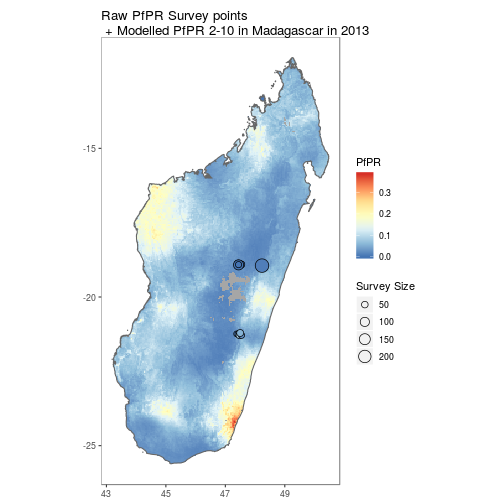
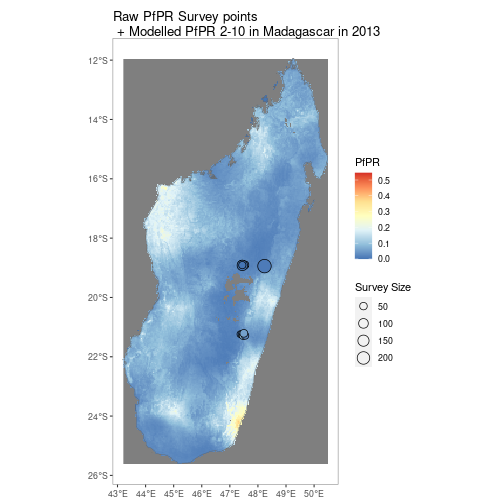
Regenerate README.md

Changed region(s): [[0.1786, 0.0, 0.8333, 1.0], [0.5357, 0.3869, 0.5655, 0.4167], [0.1786, 0.8631, 0.2083, 0.8929]]

diff --git a/README.md b/README.md
@@ -123,34 +123,34 @@ MDG_pr_data <- getPR(country = "Madagascar", species = "both")
 ```
 ## Rows: 1,651
 ## Columns: 28
-## $ dhs_id                    <chr> "", "", "", "", "", "", "", "", "", "", "", "", "", "", "", "", "", "", "", "", "", "", "", "",…
-## $ site_id                   <int> 6221, 6021, 15070, 15795, 7374, 13099, 9849, 21475, 15943, 7930, 13748, 16323, 19003, 10839, 27…
-## $ site_name                 <chr> "Andranomasina", "Andasibe", "Ambohimarina", "Antohobe", "Ambohimazava", "Ankeribe", "Alatsinai…
-## $ latitude                  <dbl> -18.7170, -19.8340, -18.7340, -19.7699, -25.0323, -18.7010, -18.7192, -19.5830, -24.9830, -19.7…
-## $ longitude                 <dbl> 47.4660, 47.8500, 47.2520, 46.6870, 46.9960, 47.1660, 47.4905, 47.4660, 46.9160, 46.6536, 46.71…
-## $ rural_urban               <chr> "UNKNOWN", "UNKNOWN", "UNKNOWN", "UNKNOWN", "UNKNOWN", "UNKNOWN", "UNKNOWN", "UNKNOWN", "UNKNOW…
-## $ country                   <chr> "Madagascar", "Madagascar", "Madagascar", "Madagascar", "Madagascar", "Madagascar", "Madagascar…
-## $ country_id                <chr> "MDG", "MDG", "MDG", "MDG", "MDG", "MDG", "MDG", "MDG", "MDG", "MDG", "MDG", "MDG", "MDG", "MDG…
-## $ continent_id              <chr> "Africa", "Africa", "Africa", "Africa", "Africa", "Africa", "Africa", "Africa", "Africa", "Afri…
-## $ month_start               <int> 1, 3, 1, 7, 4, 1, 1, 7, 4, 7, 11, 4, 9, 7, 7, 3, 7, 3, 4, 6, 3, 7, 7, 7, 7, 11, 11, 1, 11, 7, 1…
-## $ year_start                <int> 1987, 1987, 1987, 1995, 1986, 1987, 1987, 1995, 1986, 1995, 1997, 1986, 1991, 1995, 1995, 2005,…
-## $ month_end                 <int> 1, 3, 1, 8, 6, 1, 1, 8, 4, 8, 11, 6, 9, 8, 8, 6, 7, 3, 6, 6, 6, 7, 8, 8, 8, 11, 11, 1, 11, 8, 1…
-## $ year_end                  <int> 1987, 1987, 1987, 1995, 1986, 1987, 1987, 1995, 1986, 1995, 1997, 1986, 1991, 1995, 1995, 2005,…
-## $ lower_age                 <dbl> 0, 0, 0, 2, 7, 0, 0, 2, 6, 2, 2, 7, 0, 2, 2, 0, 0, 0, 7, 0, 0, 0, 2, 2, 2, 2, 2, 0, 2, 2, 0, 2,…
-## $ upper_age                 <int> 99, 99, 99, 9, 22, 99, 99, 9, 12, 9, 9, 22, 99, 9, 9, 5, 99, 99, 22, 99, 5, 99, 9, 9, 9, 9, 9, …
-## $ examined                  <int> 50, 246, 50, 50, 119, 50, 50, 50, 20, 50, 61, 156, 104, 50, 50, 147, 541, 115, 67, 123, 60, 307…
-## $ positive                  <dbl> 7.5, 126.0, 2.5, 6.0, 37.0, 13.5, 4.5, 11.5, 8.0, 7.0, 3.0, 97.0, 24.0, 33.0, 0.0, 70.0, 236.0,…
-## $ pr                        <dbl> 0.1500, 0.5122, 0.0500, 0.1200, 0.3109, 0.2700, 0.0900, 0.2300, 0.4000, 0.1400, 0.0492, 0.6218,…
-## $ species                   <chr> "P. falciparum", "P. falciparum", "P. falciparum", "P. falciparum", "P. falciparum", "P. falcip…
-## $ method                    <chr> "Microscopy", "Microscopy", "Microscopy", "Microscopy", "Microscopy", "Microscopy", "Microscopy…
-## $ rdt_type                  <chr> "", "", "", "", "", "", "", "", "", "", "", "", "", "", "", "", "", "", "", "", "", "", "", "",…
-## $ pcr_type                  <lgl> NA, NA, NA, NA, NA, NA, NA, NA, NA, NA, NA, NA, NA, NA, NA, NA, NA, NA, NA, NA, NA, NA, NA, NA,…
-## $ malaria_metrics_available <chr> "true", "true", "true", "true", "true", "true", "true", "true", "true", "true", "true", "true",…
-## $ location_available        <chr> "true", "true", "true", "true", "true", "true", "true", "true", "true", "true", "true", "true",…
-## $ permissions_info          <chr> "", "", "", "", "", "", "", "", "", "", "", "", "", "", "", "", "", "", "", "", "", "", "", "",…
-## $ citation1                 <chr> "Lepers, J.P., Ramanamirija, J.A., Andriamangatiana-Rason, M.D. and Coulanges, P. (1988).  <b>R…
-## $ citation2                 <chr> "", "", "", "", "", "", "", "", "", "", "", "", "", "", "", "", "", "", "", "", "", "", "", "",…
-## $ citation3                 <lgl> NA, NA, NA, NA, NA, NA, NA, NA, NA, NA, NA, NA, NA, NA, NA, NA, NA, NA, NA, NA, NA, NA, NA, NA,…
+## $ dhs_id                    <chr> "", "", "", "", "", "", "", "", "", "", "", "", "", "", "", "", "…
+## $ site_id                   <int> 6221, 6021, 15070, 15795, 7374, 13099, 9849, 21475, 15943, 7930, …
+## $ site_name                 <chr> "Andranomasina", "Andasibe", "Ambohimarina", "Antohobe", "Ambohim…
+## $ latitude                  <dbl> -18.7170, -19.8340, -18.7340, -19.7699, -25.0323, -18.7010, -18.7…
+## $ longitude                 <dbl> 47.4660, 47.8500, 47.2520, 46.6870, 46.9960, 47.1660, 47.4905, 47…
+## $ rural_urban               <chr> "UNKNOWN", "UNKNOWN", "UNKNOWN", "UNKNOWN", "UNKNOWN", "UNKNOWN",…
+## $ country                   <chr> "Madagascar", "Madagascar", "Madagascar", "Madagascar", "Madagasc…
+## $ country_id                <chr> "MDG", "MDG", "MDG", "MDG", "MDG", "MDG", "MDG", "MDG", "MDG", "M…
+## $ continent_id              <chr> "Africa", "Africa", "Africa", "Africa", "Africa", "Africa", "Afri…
+## $ month_start               <int> 1, 3, 1, 7, 4, 1, 1, 7, 4, 7, 11, 4, 9, 7, 7, 3, 7, 3, 4, 6, 3, 7…
+## $ year_start                <int> 1987, 1987, 1987, 1995, 1986, 1987, 1987, 1995, 1986, 1995, 1997,…
+## $ month_end                 <int> 1, 3, 1, 8, 6, 1, 1, 8, 4, 8, 11, 6, 9, 8, 8, 6, 7, 3, 6, 6, 6, 7…
+## $ year_end                  <int> 1987, 1987, 1987, 1995, 1986, 1987, 1987, 1995, 1986, 1995, 1997,…
+## $ lower_age                 <dbl> 0, 0, 0, 2, 7, 0, 0, 2, 6, 2, 2, 7, 0, 2, 2, 0, 0, 0, 7, 0, 0, 0,…
+## $ upper_age                 <int> 99, 99, 99, 9, 22, 99, 99, 9, 12, 9, 9, 22, 99, 9, 9, 5, 99, 99, …
+## $ examined                  <int> 50, 246, 50, 50, 119, 50, 50, 50, 20, 50, 61, 156, 104, 50, 50, 1…
+## $ positive                  <dbl> 7.5, 126.0, 2.5, 6.0, 37.0, 13.5, 4.5, 11.5, 8.0, 7.0, 3.0, 97.0,…
+## $ pr                        <dbl> 0.1500, 0.5122, 0.0500, 0.1200, 0.3109, 0.2700, 0.0900, 0.2300, 0…
+## $ species                   <chr> "P. falciparum", "P. falciparum", "P. falciparum", "P. falciparum…
+## $ method                    <chr> "Microscopy", "Microscopy", "Microscopy", "Microscopy", "Microsco…
+## $ rdt_type                  <chr> "", "", "", "", "", "", "", "", "", "", "", "", "", "", "", "", "…
+## $ pcr_type                  <lgl> NA, NA, NA, NA, NA, NA, NA, NA, NA, NA, NA, NA, NA, NA, NA, NA, N…
+## $ malaria_metrics_available <chr> "true", "true", "true", "true", "true", "true", "true", "true", "…
+## $ location_available        <chr> "true", "true", "true", "true", "true", "true", "true", "true", "…
+## $ permissions_info          <chr> "", "", "", "", "", "", "", "", "", "", "", "", "", "", "", "", "…
+## $ citation1                 <chr> "Lepers, J.P., Ramanamirija, J.A., Andriamangatiana-Rason, M.D. a…
+## $ citation2                 <chr> "", "", "", "", "", "", "", "", "", "", "", "", "", "", "", "", "…
+## $ citation3                 <lgl> NA, NA, NA, NA, NA, NA, NA, NA, NA, NA, NA, NA, NA, NA, NA, NA, N…
 ```
 
 
@@ -184,30 +184,30 @@ MMR_vec_data <- getVecOcc(country = "Myanmar")
 ```
 ## Rows: 2,866
 ## Columns: 24
-## $ site_id        <int> 30243, 30243, 30243, 30243, 1000000072, 1000000071, 1000000071, 1000000072, 1000000071, 1000000071, 100000…
-## $ latitude       <dbl> 16.2570, 16.2570, 16.2570, 16.2570, 17.3500, 17.3800, 17.3800, 17.3500, 17.3800, 17.3800, 17.3800, 17.3800…
-## $ longitude      <dbl> 97.7250, 97.7250, 97.7250, 97.7250, 96.0410, 96.0370, 96.0370, 96.0410, 96.0370, 96.0370, 96.0370, 96.0370…
-## $ country        <chr> "Myanmar", "Myanmar", "Myanmar", "Myanmar", "Myanmar", "Myanmar", "Myanmar", "Myanmar", "Myanmar", "Myanma…
-## $ country_id     <chr> "MMR", "MMR", "MMR", "MMR", "MMR", "MMR", "MMR", "MMR", "MMR", "MMR", "MMR", "MMR", "MMR", "MMR", "MMR", "…
-## $ continent_id   <chr> "Asia", "Asia", "Asia", "Asia", "Asia", "Asia", "Asia", "Asia", "Asia", "Asia", "Asia", "Asia", "Asia", "A…
-## $ month_start    <int> 2, 3, 8, 9, 5, 5, 5, 5, 5, 5, 5, 5, 5, 5, 5, 5, 5, 10, 5, 5, 5, 5, 5, 5, 5, 5, 5, 5, 5, 5, 5, 5, 5, 5, 5, …
-## $ year_start     <int> 1998, 1998, 1998, 1998, 1998, 1998, 1998, 1998, 1998, 1998, 1998, 1998, 1998, 1998, 1998, 1998, 1998, 1998…
-## $ month_end      <int> 2, 3, 8, 9, 3, 3, 3, 3, 3, 3, 3, 3, 3, 3, 3, 3, 3, 10, 3, 3, 3, 3, 3, 3, 3, 3, 3, 3, 3, 3, 3, 3, 3, 3, 3, …
-## $ year_end       <int> 1998, 1998, 1998, 1998, 2000, 2000, 2000, 2000, 2000, 2000, 2000, 2000, 2000, 2000, 2000, 2000, 2000, 1998…
-## $ anopheline_id  <int> 17, 17, 17, 17, 50, 49, 17, 51, 11, 4, 15, 1, 35, 30, 50, 51, 30, 17, 17, 11, 15, 1, 35, 49, 4, 17, 11, 15…
-## $ species        <chr> "Anopheles dirus species complex", "Anopheles dirus species complex", "Anopheles dirus species complex", "…
-## $ species_plain  <chr> "Anopheles dirus", "Anopheles dirus", "Anopheles dirus", "Anopheles dirus", "Anopheles stephensi", "Anophe…
-## $ id_method1     <chr> "unknown", "unknown", "unknown", "unknown", "morphology", "morphology", "morphology", "morphology", "morph…
-## $ id_method2     <chr> "", "", "", "", "", "", "", "", "", "", "", "", "", "", "", "", "", "", "", "", "", "", "", "", "", "", ""…
-## $ sample_method1 <chr> "man biting", "man biting", "man biting", "man biting", "man biting indoors", "man biting indoors", "man b…
-## $ sample_method2 <chr> "animal baited net trap", "animal baited net trap", "animal baited net trap", "animal baited net trap", "m…
-## $ sample_method3 <chr> "", "", "", "", "animal baited net trap", "animal baited net trap", "animal baited net trap", "animal bait…
-## $ sample_method4 <chr> "", "", "", "", "house resting inside", "house resting inside", "house resting inside", "house resting ins…
-## $ assi           <chr> "", "", "", "", "", "", "", "", "", "", "", "", "", "", "", "", "", "", "", "", "", "", "", "", "", "", ""…
-## $ citation       <chr> "Oo, T.T., Storch, V. and Becker, N. (2003).  <b><i>Anopheles</i> <i>dirus</i> and its role in malaria tra…
-## $ geom           <chr> "POINT (16.257 97.725)", "POINT (16.257 97.725)", "POINT (16.257 97.725)", "POINT (16.257 97.725)", "POINT…
-## $ time_start     <chr> "1998-02-01", "1998-03-01", "1998-08-01", "1998-09-01", "1998-05-01", "1998-05-01", "1998-05-01", "1998-05…
-## $ time_end       <chr> "1998-02-01", "1998-03-01", "1998-08-01", "1998-09-01", "2000-03-01", "2000-03-01", "2000-03-01", "2000-03…
+## $ site_id        <int> 30243, 30243, 30243, 30243, 1000000072, 1000000071, 1000000071, 1000000072, …
+## $ latitude       <dbl> 16.257, 16.257, 16.257, 16.257, 17.350, 17.380, 17.380, 17.350, 17.380, 17.3…
+## $ longitude      <dbl> 97.725, 97.725, 97.725, 97.725, 96.041, 96.037, 96.037, 96.041, 96.037, 96.0…
+## $ country        <chr> "Myanmar", "Myanmar", "Myanmar", "Myanmar", "Myanmar", "Myanmar", "Myanmar",…
+## $ country_id     <chr> "MMR", "MMR", "MMR", "MMR", "MMR", "MMR", "MMR", "MMR", "MMR", "MMR", "MMR",…
+## $ continent_id   <chr> "Asia", "Asia", "Asia", "Asia", "Asia", "Asia", "Asia", "Asia", "Asia", "Asi…
+## $ month_start    <int> 2, 3, 8, 9, 5, 5, 5, 5, 5, 5, 5, 5, 5, 5, 5, 5, 5, 10, 5, 5, 5, 5, 5, 5, 5, …
+## $ year_start     <int> 1998, 1998, 1998, 1998, 1998, 1998, 1998, 1998, 1998, 1998, 1998, 1998, 1998…
+## $ month_end      <int> 2, 3, 8, 9, 3, 3, 3, 3, 3, 3, 3, 3, 3, 3, 3, 3, 3, 10, 3, 3, 3, 3, 3, 3, 3, …
+## $ year_end       <int> 1998, 1998, 1998, 1998, 2000, 2000, 2000, 2000, 2000, 2000, 2000, 2000, 2000…
+## $ anopheline_id  <int> 17, 17, 17, 17, 50, 49, 17, 51, 11, 4, 15, 1, 35, 30, 50, 51, 30, 17, 17, 11…
+## $ species        <chr> "Anopheles dirus species complex", "Anopheles dirus species complex", "Anoph…
+## $ species_plain  <chr> "Anopheles dirus", "Anopheles dirus", "Anopheles dirus", "Anopheles dirus", …
+## $ id_method1     <chr> "unknown", "unknown", "unknown", "unknown", "morphology", "morphology", "mor…
+## $ id_method2     <chr> "", "", "", "", "", "", "", "", "", "", "", "", "", "", "", "", "", "", "", …
+## $ sample_method1 <chr> "man biting", "man biting", "man biting", "man biting", "man biting indoors"…
+## $ sample_method2 <chr> "animal baited net trap", "animal baited net trap", "animal baited net trap"…
+## $ sample_method3 <chr> "", "", "", "", "animal baited net trap", "animal baited net trap", "animal …
+## $ sample_method4 <chr> "", "", "", "", "house resting inside", "house resting inside", "house resti…
+## $ assi           <chr> "", "", "", "", "", "", "", "", "", "", "", "", "", "", "", "", "", "", "", …
+## $ citation       <chr> "Oo, T.T., Storch, V. and Becker, N. (2003).  <b><i>Anopheles</i> <i>dirus</…
+## $ geom           <chr> "POINT (16.257 97.725)", "POINT (16.257 97.725)", "POINT (16.257 97.725)", "…
+## $ time_start     <chr> "1998-02-01", "1998-03-01", "1998-08-01", "1998-09-01", "1998-05-01", "1998-…
+## $ time_end       <chr> "1998-02-01", "1998-03-01", "1998-08-01", "1998-09-01", "2000-03-01", "2000-…
 ```
 
 `autoplot.vector.points` configures autoplot method to enable quick mapping of the locations of downloaded vector points. 
@@ -237,25 +237,42 @@ MDG_shp <- getShp(ISO = "MDG", admin_level = c("admin0", "admin1"))
 ```
 
 ```
+## Reading layer `mapadmin_0_2018' from data source 
+##   `/tmp/Rtmpq4W3uO/shp/shp24fe071ca81346/mapadmin_0_2018.shp' using driver `ESRI Shapefile'
+## Simple feature collection with 1 feature and 8 fields
+## Geometry type: MULTIPOLYGON
+## Dimension:     XY
+## Bounding box:  xmin: 43.19138 ymin: -25.60895 xmax: 50.48378 ymax: -11.94543
+## Geodetic CRS:  WGS 84
+## Reading layer `mapadmin_1_2018' from data source 
+##   `/tmp/Rtmpq4W3uO/shp/shp24fe071f231cf4/mapadmin_1_2018.shp' using driver `ESRI Shapefile'
+## Simple feature collection with 22 features and 12 fields
+## Geometry type: MULTIPOLYGON
+## Dimension:     XY
+## Bounding box:  xmin: 43.19138 ymin: -25.60895 xmax: 50.48378 ymax: -11.94543
+## Geodetic CRS:  WGS 84
+```
+
+```
 ## Rows: 23
 ## Columns: 17
-## $ iso           <chr> "MDG", "MDG", "MDG", "MDG", "MDG", "MDG", "MDG", "MDG", "MDG", "MDG", "MDG", "MDG", "MDG", "MDG", "MDG", "M…
+## $ iso           <chr> "MDG", "MDG", "MDG", "MDG", "MDG", "MDG", "MDG", "MDG", "MDG", "MDG", "MDG", …
 ## $ admn_level    <dbl> 0, 1, 1, 1, 1, 1, 1, 1, 1, 1, 1, 1, 1, 1, 1, 1, 1, 1, 1, 1, 1, 1, 1
-## $ name_0        <chr> "Madagascar", "Madagascar", "Madagascar", "Madagascar", "Madagascar", "Madagascar", "Madagascar", "Madagasc…
-## $ id_0          <dbl> 10000910, 10000910, 10000910, 10000910, 10000910, 10000910, 10000910, 10000910, 10000910, 10000910, 1000091…
-## $ type_0        <chr> "Country", "Country", "Country", "Country", "Country", "Country", "Country", "Country", "Country", "Country…
-## $ name_1        <chr> "name_1", "Androy", "Anosy", "Atsimo Andrefana", "Atsimo Atsinanana", "Atsinanana", "Betsiboka", "Boeny", "…
-## $ id_1          <chr> "id_1", "10023001", "10023002", "10023003", "10022990", "10023000", "10022994", "10022995", "10022984", "10…
-## $ type_1        <chr> "type_1", "Region", "Region", "Region", "Region", "Region", "Region", "Region", "Region", "Region", "Region…
-## $ name_2        <chr> "name_2", "name_2", "name_2", "name_2", "name_2", "name_2", "name_2", "name_2", "name_2", "name_2", "name_2…
-## $ id_2          <chr> "id_2", "id_2", "id_2", "id_2", "id_2", "id_2", "id_2", "id_2", "id_2", "id_2", "id_2", "id_2", "id_2", "id…
-## $ type_2        <chr> "type_2", "type_2", "type_2", "type_2", "type_2", "type_2", "type_2", "type_2", "type_2", "type_2", "type_2…
-## $ name_3        <chr> "name_3", "name_3", "name_3", "name_3", "name_3", "name_3", "name_3", "name_3", "name_3", "name_3", "name_3…
-## $ id_3          <chr> "id_3", "id_3", "id_3", "id_3", "id_3", "id_3", "id_3", "id_3", "id_3", "id_3", "id_3", "id_3", "id_3", "id…
-## $ type_3        <chr> "type_3", "type_3", "type_3", "type_3", "type_3", "type_3", "type_3", "type_3", "type_3", "type_3", "type_3…
-## $ source        <chr> "Madagascar NMCP 2016", "Madagascar NMCP 2016", "Madagascar NMCP 2016", "Madagascar NMCP 2016", "Madagascar…
-## $ country_level <chr> "MDG_0", "MDG_1", "MDG_1", "MDG_1", "MDG_1", "MDG_1", "MDG_1", "MDG_1", "MDG_1", "MDG_1", "MDG_1", "MDG_1",…
-## $ geometry      <MULTIPOLYGON [°]> MULTIPOLYGON (((44.22776 -2..., MULTIPOLYGON (((45.25095 -2..., MULTIPOLYGON (((45.95247 -2..., MULTIPOLYGO…
+## $ name_0        <chr> "Madagascar", "Madagascar", "Madagascar", "Madagascar", "Madagascar", "Madaga…
+## $ id_0          <dbl> 10000910, 10000910, 10000910, 10000910, 10000910, 10000910, 10000910, 1000091…
+## $ type_0        <chr> "Country", "Country", "Country", "Country", "Country", "Country", "Country", …
+## $ name_1        <chr> "name_1", "Androy", "Anosy", "Atsimo Andrefana", "Atsimo Atsinanana", "Atsina…
+## $ id_1          <chr> "id_1", "10023001", "10023002", "10023003", "10022990", "10023000", "10022994…
+## $ type_1        <chr> "type_1", "Region", "Region", "Region", "Region", "Region", "Region", "Region…
+## $ name_2        <chr> "name_2", "name_2", "name_2", "name_2", "name_2", "name_2", "name_2", "name_2…
+## $ id_2          <chr> "id_2", "id_2", "id_2", "id_2", "id_2", "id_2", "id_2", "id_2", "id_2", "id_2…
+## $ type_2        <chr> "type_2", "type_2", "type_2", "type_2", "type_2", "type_2", "type_2", "type_2…
+## $ name_3        <chr> "name_3", "name_3", "name_3", "name_3", "name_3", "name_3", "name_3", "name_3…
+## $ id_3          <chr> "id_3", "id_3", "id_3", "id_3", "id_3", "id_3", "id_3", "id_3", "id_3", "id_3…
+## $ type_3        <chr> "type_3", "type_3", "type_3", "type_3", "type_3", "type_3", "type_3", "type_3…
+## $ source        <chr> "Madagascar NMCP 2016", "Madagascar NMCP 2016", "Madagascar NMCP 2016", "Mada…
+## $ geometry      <MULTIPOLYGON [°]> MULTIPOLYGON (((44.22776 -2..., MULTIPOLYGON (((45.25095 -2..., MULTIPOLYGON …
+## $ country_level <chr> "MDG_0", "MDG_1", "MDG_1", "MDG_1", "MDG_1", "MDG_1", "MDG_1", "…
 ```
 
 `autoplot.sf` configures autoplot method to enable quick mapping of downloaded shapefiles.
@@ -296,13 +313,7 @@ MDG_PfPR2_10 <- getRaster(surface = "Plasmodium falciparum PR2-10", shp = MDG_sh
 p <- autoplot(MDG_PfPR2_10, shp_df = MDG_shp)
 ```
 
-```
-## Error:
-## ! Problem while computing layer data.
-## ℹ Error occurred in the 2nd layer.
-## Caused by error in `l$layer_data()`:
-## ! attempt to apply non-function
-```
+![plot of chunk unnamed-chunk-22](man/figures/unnamed-chunk-22-1.png)
 
 
 ### Combined visualisation 
@@ -324,13 +335,7 @@ scale_size_continuous(name = "Survey Size")+
  ggtitle("Raw PfPR Survey points\n + Modelled PfPR 2-10 in Madagascar in 2013")
 ```
 
-```
-## Error:
-## ! Problem while computing layer data.
-## ℹ Error occurred in the 2nd layer.
-## Caused by error in `l$layer_data()`:
-## ! attempt to apply non-function
-```
+![plot of chunk unnamed-chunk-23](man/figures/unnamed-chunk-23-1.png)
 
 Similarly for vector survey data
 
@@ -349,13 +354,7 @@ geom_point(data = vec, aes(longitude, latitude, colour = species))+
  ggtitle("Vector Survey points\n + The predicted distribution of An. dirus complex")
 ```
 
-```
-## Error:
-## ! Problem while computing layer data.
-## ℹ Error occurred in the 2nd layer.
-## Caused by error in `l$layer_data()`:
-## ! attempt to apply non-function
-```
+![plot of chunk unnamed-chunk-24](man/figures/unnamed-chunk-24-1.png)
 
 
 ## Installation
